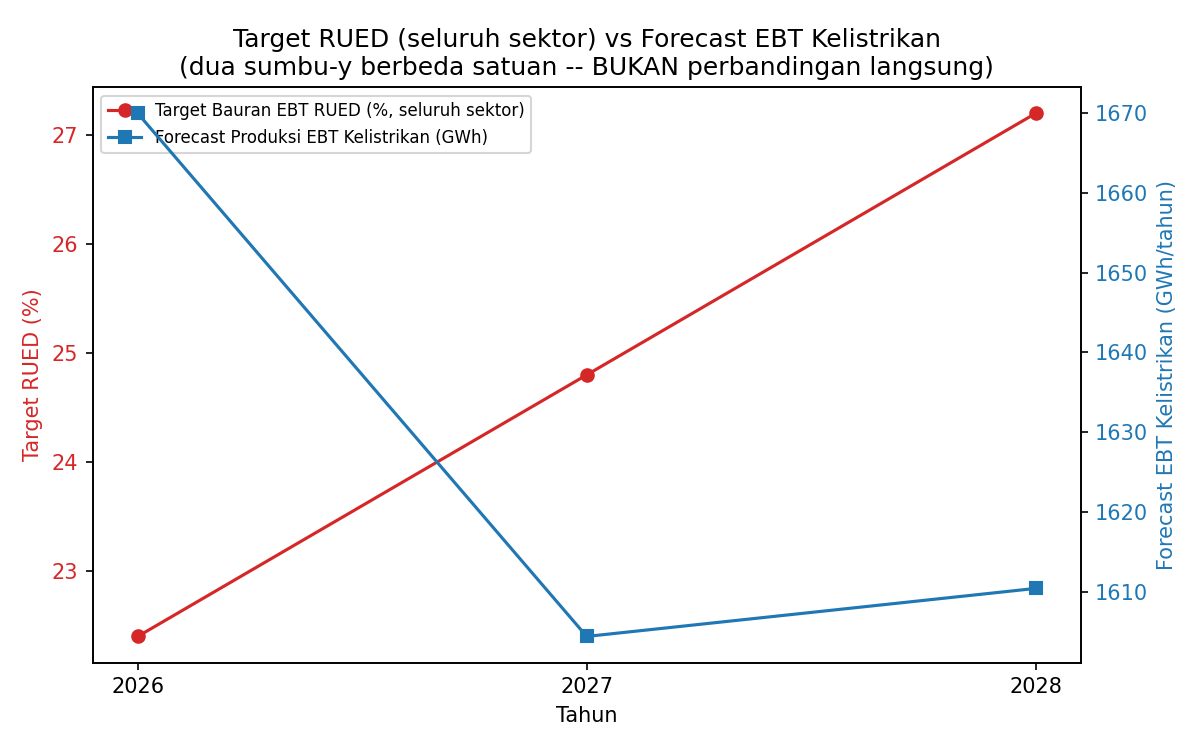
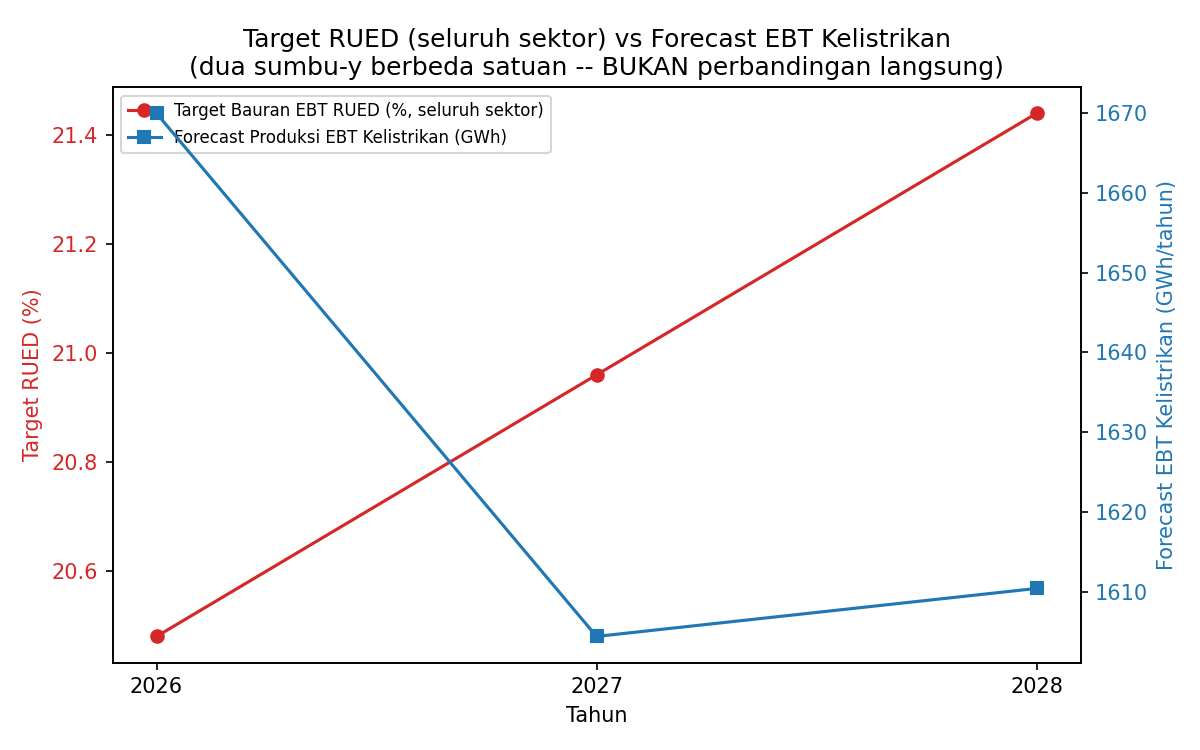
Correct RUED target year (2030 -> 2050) and surface data-reconstruction disclosure in UI
Task 4a -- koreksi angka target RUED:
Pasal 9 Perda Provinsi Sulsel No. 2 Tahun 2022 (RUED-P) menetapkan bauran
EBT 32% sampai dengan 2050, bukan 2030 (target 20% @ 2025 sudah benar).
Anchor kedua di config_target_rued.csv diperbaiki, gap_rued.py +
export_dashboard_data.py dijalankan ulang sehingga interpolasi target
turun dari +2,4 menjadi +0,48 poin persen/tahun (2026: 20,48%, 2027:
20,96%, 2028: 21,44%). Angka forecast GWh di tugas2_findings.md ikut
disinkronkan karena masih memuat nilai sebelum ce98f97.

Task 4b -- disclosure data rekonstruksi di layar:
Dashboard.jsx dan DataEBT.jsx menampilkan Note tone=warn yang menyatakan
data historis 2023-2025 adalah rekonstruksi/estimasi (bukan observasi
terverifikasi Dinas ESDM) dan Cuaca adalah proxy pola 2023 yang diulang
tiap tahun -- sebelumnya hanya ada di komentar header src/lib/data.js.

Tidak ada model yang dilatih ulang (.keras tidak berubah).

diff --git a/src/pages/Dashboard.jsx b/src/pages/Dashboard.jsx
@@ -116,7 +116,12 @@ export default function Dashboard({ go }) {
           title="Tren produksi EBT historis"
           subtitle={`Total tahunan ${ANNUAL_ACTUAL[0]?.year}–${lastActual?.year} + proyeksi`}
         >
-          <AnnualChart data={TREND_ANNUAL} height={224} />
+          <div className="space-y-3">
+            <AnnualChart data={TREND_ANNUAL} height={224} />
+            <Note tone="warn">
+              <strong>Data historis 2023–2025 adalah hasil rekonstruksi/estimasi</strong>, bukan observasi langsung yang terverifikasi Dinas ESDM. Fitur Cuaca berupa proxy pola tahun 2023 yang diulang tiap tahun.
+            </Note>
+          </div>
         </Panel>
         <Panel
           className="lg:col-span-7"

diff --git a/src/lib/data.js b/src/lib/data.js
@@ -1,5 +1,5 @@
 // AUTO-GENERATED oleh audit/analysis/export_dashboard_data.py -- JANGAN EDIT MANUAL.
-// Dibuat ulang: 2026-07-26 14:18
+// Dibuat ulang: 2026-07-27 13:50
 // Sumber data (semua hasil AUDIT, lihat audit/results/ & audit/analysis/):
 //   - Data aktual 2023-2025 : audit/source/DATA_PHASE_3_REGIONAL_MODIFIED.csv
 //     (data REKONSTRUKSI/ESTIMASI -- lihat audit/source/README.md, BUKAN data
@@ -50,7 +50,7 @@ export const RUED_TARGET = {
       "persen": 20.0
     },
     {
-      "year": 2030,
+      "year": 2050,
       "persen": 32.0
     }
   ],

diff --git a/src/pages/DataEBT.jsx b/src/pages/DataEBT.jsx
@@ -224,6 +224,11 @@ export default function DataEBT() {
               </tr>
             ))}
           />
+          <div className="p-4" style={{ borderTop: `1px solid ${C.line}` }}>
+            <Note tone="warn">
+              <strong>Dataset ini adalah hasil rekonstruksi/estimasi</strong>, bukan data asli yang terverifikasi Dinas ESDM. Kolom Cuaca berupa proxy pola tahun 2023 yang diulang tiap tahun.
+            </Note>
+          </div>
         </Panel>
 
         {/* Kelola data accordion */}

diff --git a/audit/analysis/gap_rued.py b/audit/analysis/gap_rued.py
@@ -3,7 +3,7 @@ Gap analysis: forecast EBT sektor kelistrikan (2026-2028) vs target RUED
 Provinsi Sulawesi Selatan (Perda No. 2 Tahun 2022).
 
 PENTING -- keterbatasan metodologis yang disengaja, bukan bug:
-Target RUED (20% @ 2025, 32% @ 2030) adalah target BAURAN ENERGI untuk
+Target RUED (20% @ 2025, 32% @ 2050) adalah target BAURAN ENERGI untuk
 SELURUH SEKTOR (listrik, transportasi, industri, rumah tangga, dst), dalam
 satuan PERSEN dari total konsumsi/pasokan energi daerah. Forecast model ini
 HANYA mencakup produksi EBT SEKTOR KELISTRIKAN (GWh), yang merupakan
@@ -44,7 +44,7 @@ FORECAST_YEARS = [2026, 2027, 2028]
 
 
 def interpolate_target(target_df, years):
-    """Interpolasi linear target % RUED antar titik jangkar (2025->20%, 2030->32%)."""
+    """Interpolasi linear target % RUED antar titik jangkar (2025->20%, 2050->32%)."""
     anchor_years = target_df["Tahun"].values.astype(float)
     anchor_values = target_df["Target_Bauran_EBT_Persen"].values.astype(float)
     slope = (anchor_values[1] - anchor_values[0]) / (anchor_years[1] - anchor_years[0])

diff --git a/audit/results/tugas2_findings.md b/audit/results/tugas2_findings.md
@@ -1,5 +1,9 @@
 # Laporan Tugas 2 — Gap Analysis RUED & Baseline Non-DL
 
+**Update 2026-07-27**: angka target & forecast disinkronkan ulang setelah
+commit `ce98f97` (model selection fix) dan koreksi Pasal 9 Perda No. 2 Tahun
+2022 (target 32% berlaku sampai **2050**, bukan 2030).
+
 **Update 2026-07-23**: seluruh angka di dokumen ini sudah dijalankan ulang
 memakai model hasil perbaikan data leakage (lihat
 [`audit_findings.md`](audit_findings.md) bagian 4) — angka sebelumnya
@@ -13,8 +17,8 @@ Output: [`gap_analysis_2026_2028.csv`](gap_analysis_2026_2028.csv), [`gap_analys
 
 ## 1. Gap Analysis vs Target RUED
 
-**Koreksi angka target** (sesuai konfirmasi pengguna, menggantikan `config/target_rued.csv` di repo `prediksi-lstm-ebt` yang statusnya sudah eksplisit ditandai **PLACEHOLDER/fabrikasi** oleh README-nya sendiri):
-- Target RUED Sulsel (Perda No. 2 Tahun 2022): **20% pada 2025**, **32% pada 2030** (bukan 2050).
+**Koreksi angka target** (diverifikasi langsung dari Pasal 9 Perda Provinsi Sulawesi Selatan No. 2 Tahun 2022 tentang RUED-P, menggantikan `config/target_rued.csv` di repo `prediksi-lstm-ebt` yang statusnya sudah eksplisit ditandai **PLACEHOLDER/fabrikasi** oleh README-nya sendiri):
+- Target RUED Sulsel (Perda No. 2 Tahun 2022): **20% pada 2025**, **32% sampai dengan 2050**.
 - Satuan: **persen bauran energi**, mencakup **seluruh sektor energi** (listrik, transportasi, industri, dst) — bukan spesifik sektor kelistrikan.
 
 **Keterbatasan metodologis yang disengaja (bukan diabaikan begitu saja):**
@@ -24,11 +28,11 @@ Forecast model ini hanya mencakup **produksi EBT sektor kelistrikan** (GWh) — 
 
 | Tahun | Target Bauran EBT RUED (%, seluruh sektor) | Forecast EBT Kelistrikan (GWh/tahun) |
 |---|---|---|
-| 2026 | 22.4 (interpolasi linear 20%→32%) | 1.636,32 |
-| 2027 | 24.8 | 1.611,23 |
-| 2028 | 27.2 | 1.609,93 |
+| 2026 | 20.48 (interpolasi linear 20%@2025→32%@2050) | 1.669,99 |
+| 2027 | 20.96 | 1.604,38 |
+| 2028 | 21.44 | 1.610,40 |
 
-Trennya: target RUED terus naik (+2,4 poin persen/tahun), sementara forecast EBT kelistrikan justru **turun/stagnan** dari 2026 ke 2028. Ini konsisten dengan temuan RMSE PLTB yang tinggi di Tugas 1 (LSTM kesulitan menangkap tren PLTB, kontributor produksi terbesar) — layak dibahas di Bab IV/V sebagai catatan bahwa proyeksi kelistrikan saja (tanpa data sektor lain) tidak bisa dipakai untuk menyimpulkan pencapaian/kegagalan target RUED secara keseluruhan.
+Trennya: target RUED terus naik (+0,48 poin persen/tahun), sementara forecast EBT kelistrikan justru **turun/stagnan** dari 2026 ke 2028. Ini konsisten dengan temuan RMSE PLTB yang tinggi di Tugas 1 (LSTM kesulitan menangkap tren PLTB, kontributor produksi terbesar) — layak dibahas di Bab IV/V sebagai catatan bahwa proyeksi kelistrikan saja (tanpa data sektor lain) tidak bisa dipakai untuk menyimpulkan pencapaian/kegagalan target RUED secara keseluruhan.
 
 **Rekomendasi untuk skripsi**: sebut bagian ini sebagai "gap kontekstual" atau "referensi tren", bukan "gap resmi terhadap RUED" — dan cantumkan keterbatasan cakupan (kelistrikan vs seluruh sektor) secara eksplisit di teks maupun judul chart/tabel.
 
